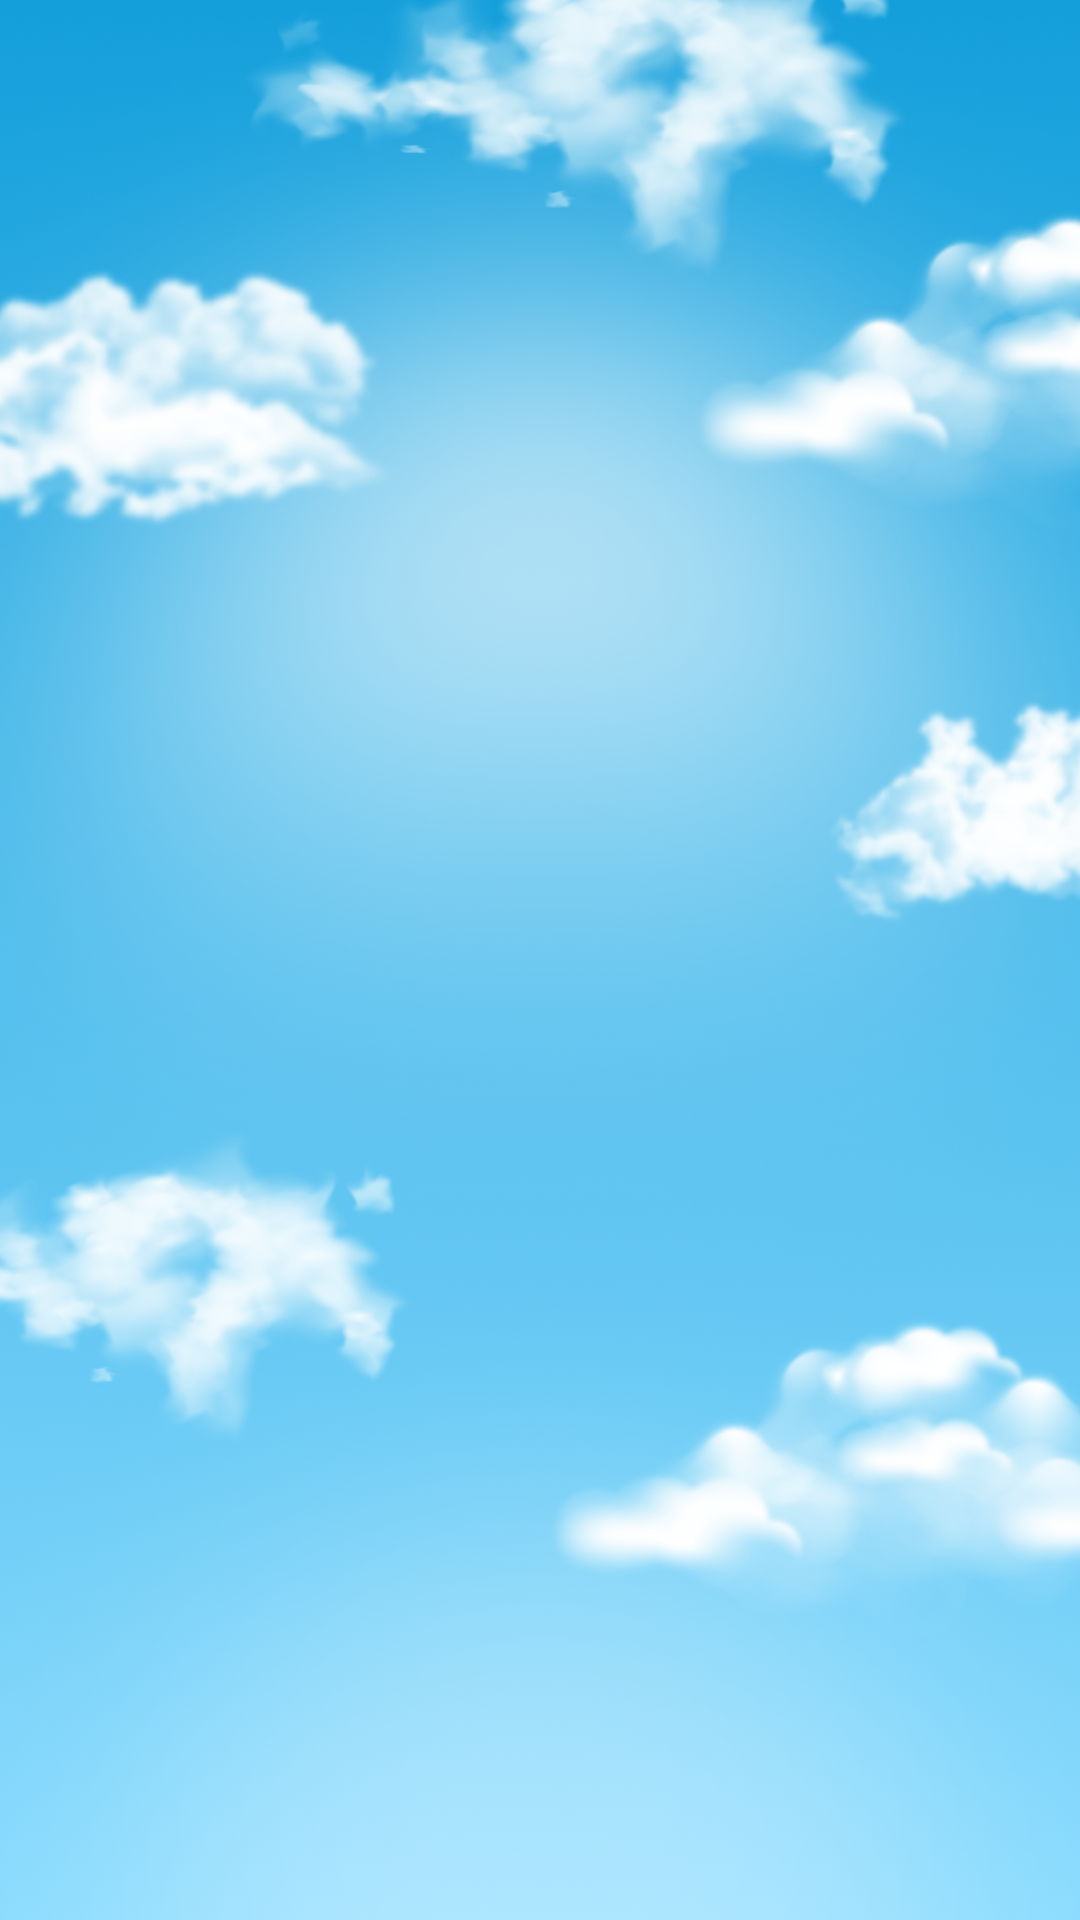
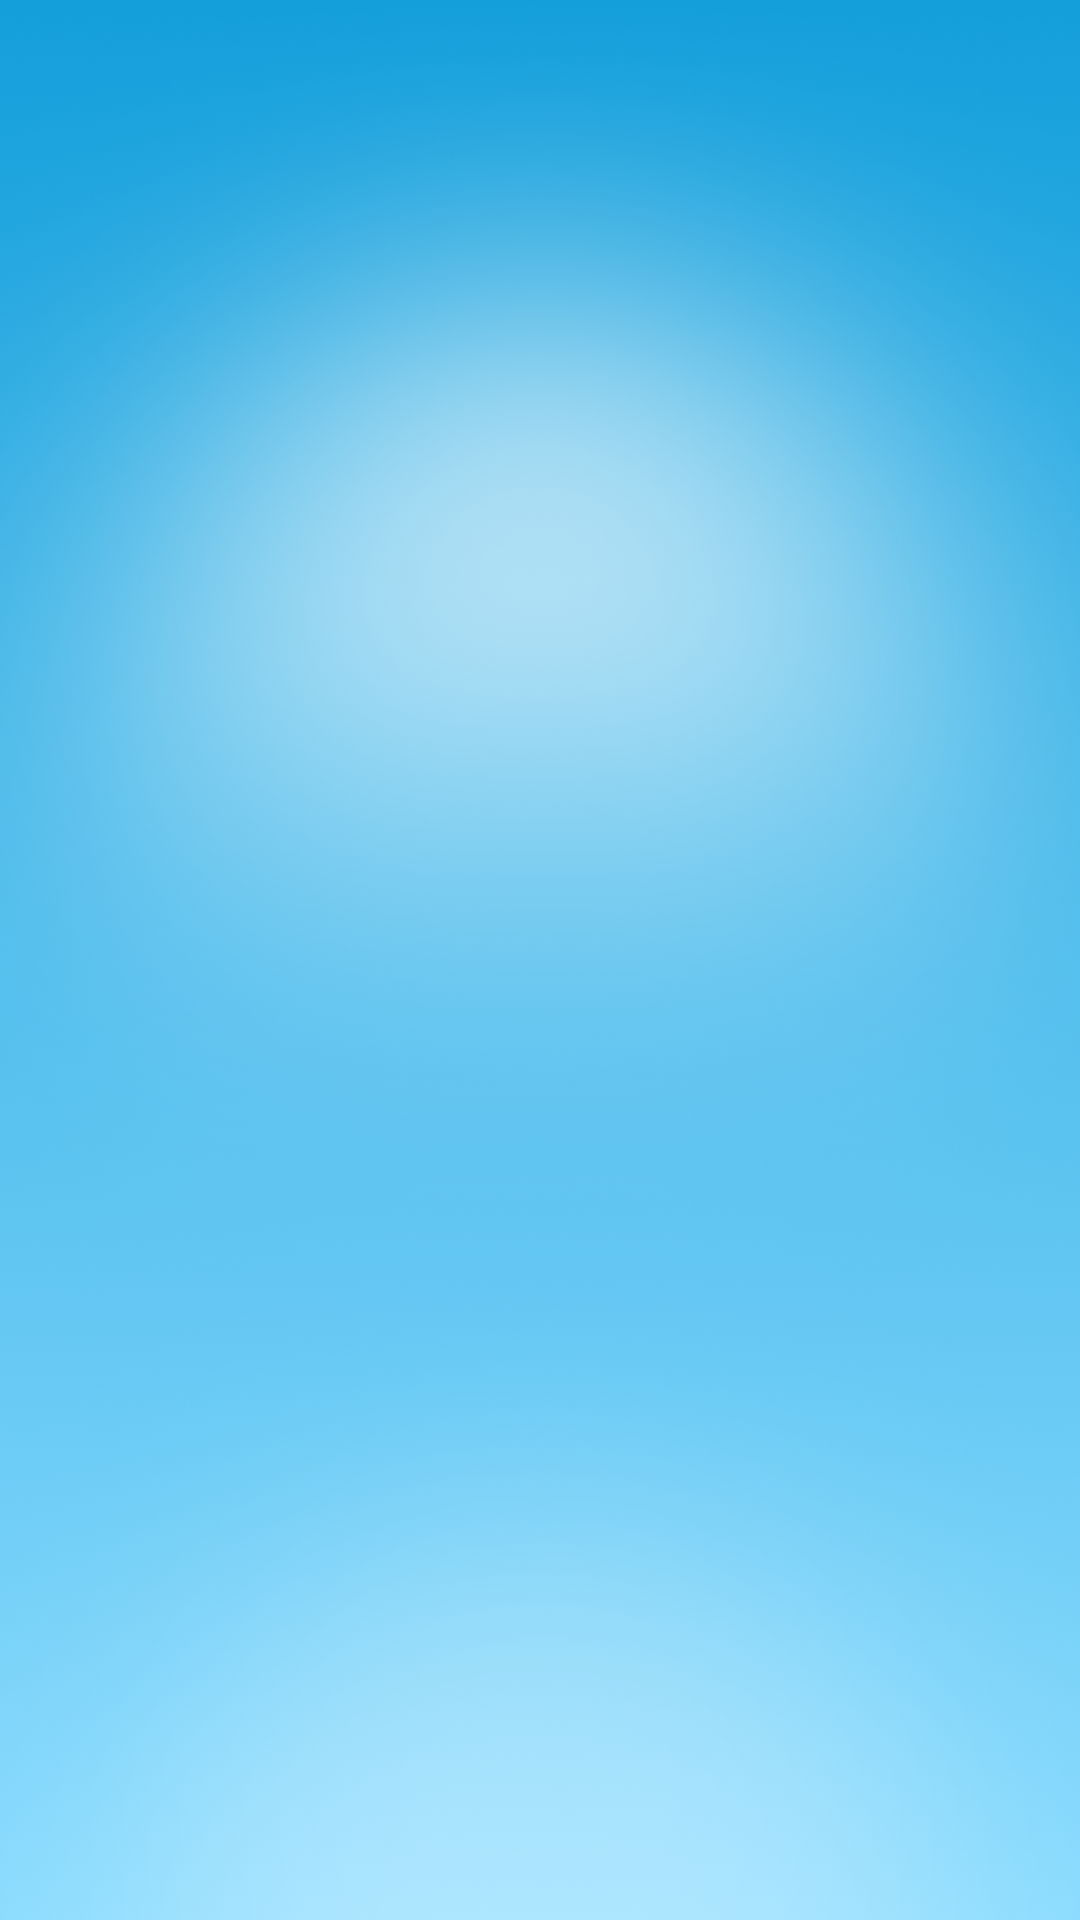
claud animation in progress

diff --git a/assets/styles/claud-animation.css b/assets/styles/claud-animation.css
@@ -1,0 +1,170 @@
+body,
+html {
+  height: 100%;
+}
+body {
+  background-image: url("../images/bg.png");
+  background-size: cover;
+  background-position: center;
+  background-repeat: no-repeat;
+  background-color: #1ba2dd;
+  min-height: 100vh;
+  font-family: "Noto Sans Hebrew", sans-serif;
+  position: relative;
+}
+body::before,
+body::after {
+  content: "";
+  position: fixed;
+  inset: 0;
+  pointer-events: none;
+}
+
+/* ===== TOP LEFT CLOUD ===== */
+body::before {
+  z-index: 1;
+  background-image: url("../images/claud-1.png");
+  background-repeat: no-repeat;
+  background-size: 350px auto;
+  background-position: 5% 15%;
+  opacity: 0.7;
+  animation: cloudDrift1 20s ease-in-out infinite;
+}
+
+/* ===== TOP CENTER CLOUD ===== */
+body::after {
+  z-index: 2;
+  background-image: url("../images/claud-2.png");
+  background-repeat: no-repeat;
+  background-size: 320px auto;
+  background-position: 45% 8%;
+  opacity: 0.6;
+  animation: cloudDrift2 25s ease-in-out infinite;
+}
+
+html::before,
+html::after {
+  content: "";
+  position: fixed;
+  inset: 0;
+  pointer-events: none;
+}
+
+/* ===== TOP RIGHT CLOUD ===== */
+html::before {
+  z-index: 3;
+  background-image: url("../images/claud-3.png");
+  background-repeat: no-repeat;
+  background-size: 300px auto;
+  background-position: 88% 12%;
+  opacity: 0.65;
+  animation: cloudDrift3 22s ease-in-out infinite;
+}
+
+/* ===== MIDDLE RIGHT CLOUD ===== */
+html::after {
+  z-index: 4;
+  background-image: url("../images/claud-4.png");
+  background-repeat: no-repeat;
+  background-size: 380px auto;
+  background-position: 85% 45%;
+  opacity: 0.7;
+  animation: cloudDrift4 28s ease-in-out infinite;
+}
+
+.cloud-layer {
+  position: fixed;
+  inset: 0;
+  pointer-events: none;
+}
+
+/* ===== BOTTOM LEFT CLOUD ===== */
+.cloud-layer::before {
+  content: "";
+  position: fixed;
+  inset: 0;
+  pointer-events: none;
+  z-index: 5;
+  background-image: url("../images/claud-5.png");
+  background-repeat: no-repeat;
+  background-size: 420px auto;
+  background-position: 8% 78%;
+  opacity: 0.75;
+  animation: cloudDrift5 24s ease-in-out infinite;
+}
+
+/* ===== BOTTOM RIGHT CLOUD ===== */
+.cloud-layer::after {
+  content: "";
+  position: fixed;
+  inset: 0;
+  pointer-events: none;
+  z-index: 6;
+  background-image: url("../images/claud-6.png");
+  background-repeat: no-repeat;
+  background-size: 350px auto;
+  background-position: 82% 85%;
+  opacity: 0.7;
+  animation: cloudDrift6 21s ease-in-out infinite;
+}
+
+/* ===== Smooth Drifting Animations ===== */
+@keyframes cloudDrift1 {
+  0%,
+  100% {
+    transform: translate(0, 0);
+  }
+  50% {
+    transform: translate(-150px, -30px);
+  }
+}
+
+@keyframes cloudDrift2 {
+  0%,
+  100% {
+    transform: translate(0, 0);
+  }
+  50% {
+    transform: translate(120px, 40px);
+  }
+}
+
+@keyframes cloudDrift3 {
+  0%,
+  100% {
+    transform: translate(0, 0);
+  }
+  50% {
+    transform: translate(-140px, 45px);
+  }
+}
+
+@keyframes cloudDrift4 {
+  0%,
+  100% {
+    transform: translate(0, 0);
+  }
+  50% {
+    transform: translate(100px, -50px);
+  }
+}
+
+@keyframes cloudDrift5 {
+  0%,
+  100% {
+    transform: translate(0, 0);
+  }
+  50% {
+    transform: translate(-130px, 35px);
+  }
+}
+
+@keyframes cloudDrift6 {
+  0%,
+  100% {
+    transform: translate(0, 0);
+  }
+  50% {
+    transform: translate(160px, -40px);
+  }
+}

diff --git a/assets/styles/global.css b/assets/styles/global.css
@@ -6,6 +6,7 @@ body {
   background-color: #1ba2dd;
   min-height: 100vh;
   font-family: "Noto Sans Hebrew", sans-serif;
+  position: relative;
 }
 
 .main {

diff --git a/assets/styles/main.css b/assets/styles/main.css
@@ -19,3 +19,4 @@
 @import "./button-animation.css";
 @import "./keyboard.css";
 @import "./typography.css";
+@import "./claud-animation.css";
